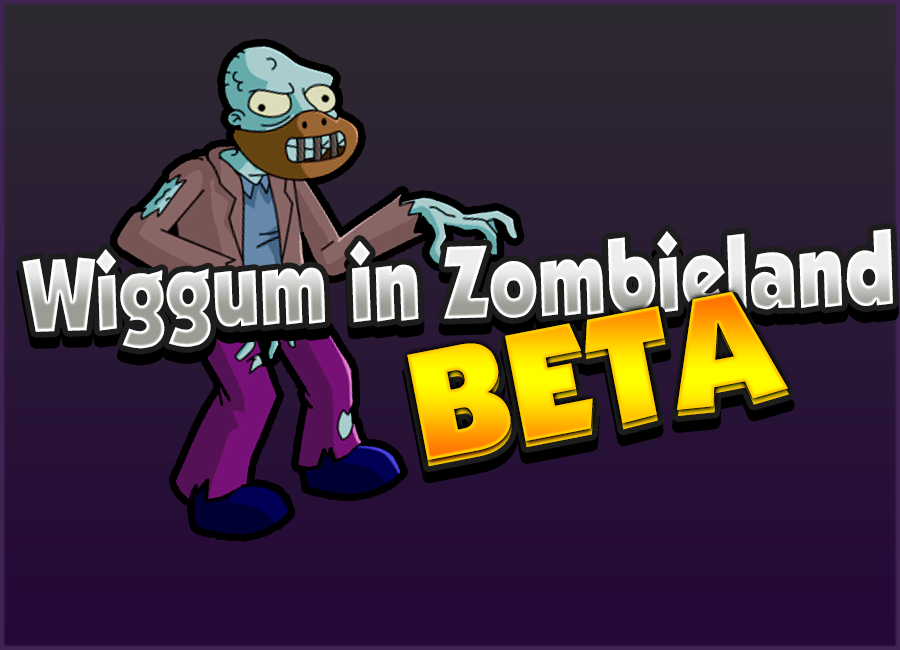
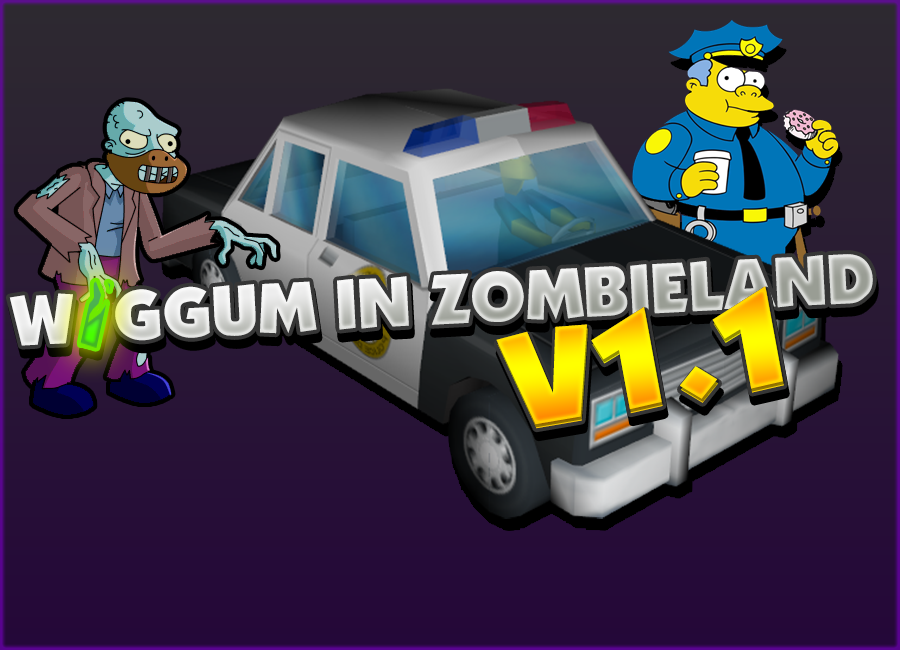
21412e
e1221

diff --git a/index.html b/index.html
@@ -50,7 +50,7 @@
                         <a href="about.html">About</a>
                     </li>
                     <li class="page-scroll">
-                        <a href="#contact">Youtube</a>
+                        <a href="https://www.youtube.com/channel/UCL8RgTjg9r3T1QiTjUpTS2g">Youtube</a>
                     </li>
                 </ul>
             </div>
@@ -277,16 +277,17 @@
                 <div class="row">
                     <div class="col-lg-8 col-lg-offset-2">
                         <div class="modal-body">
-                            <h2>Wiggum in Zombieland (BETA)</h2>
+                            <h2>Wiggum in Zombieland</h2>
                             <h4>TOS Team's Reccomendation</h4>
                             <hr class="star-primary">
                             <img src="img/portfolio/WiZ.png" class="img-responsive img-centered" alt="">
-                            <p>A mod which takes place in SHAR's timeline of Level 7, you play as Wiggum in the outbreak of the Zombie apocalypse, it is up to you to crack the case and save Springfield, alongside the help of the witty and dumb companions around Springfield.</p>
+                            <p>Chief Wiggum is out of his cola trance! Now awoken in a zombie             nightmare, Chief Wiggum must figure out what gave way for the zombie       outbreak, and how to thwart the alien's plans!
+                                Wiggum in Zombieland is a mod which takes place in SHAR's timeline of Level 7, you play as Wiggum in the outbreak of the Zombie apocalypse, it is up to you to crack the case and save Springfield, alongside the help of the witty and dumb companions around Springfield.</p>
                             <p><br>Developed by Thomas Donofri</p>
                             <p><a href="https://hipporeno.github.io/">(Thomas' Website)</a></p>
                             <ul class="list-inline item-details">
                                 <li>Download:
-                                    <strong><a href="https://mega.nz/#!iwsxXayC!qEZKv8FJivTNNyD8u5sMMYMqIIHNfC3pQpVqZJdSmAY">Wiggum in Zombieland BETA</a>
+                                    <strong><a href="https://mega.nz/#!usUDSChB!Rxm_n4Rm3ZgXsumCE05P5JDTb-2YgoAO2dFsCzBMFFM">Wiggum in Zombieland V1.1</a>
                                     </strong>
                                 </li>
                             </ul>

diff --git a/about.html b/about.html
@@ -50,7 +50,7 @@
                         <a href="about.html">About</a>
                     </li>
                     <li class="page-scroll">
-                        <a href="#contact">Youtube</a>
+                        <a href="https://www.youtube.com/channel/UCL8RgTjg9r3T1QiTjUpTS2g">Youtube</a>
                     </li>
                 </ul>
             </div>
